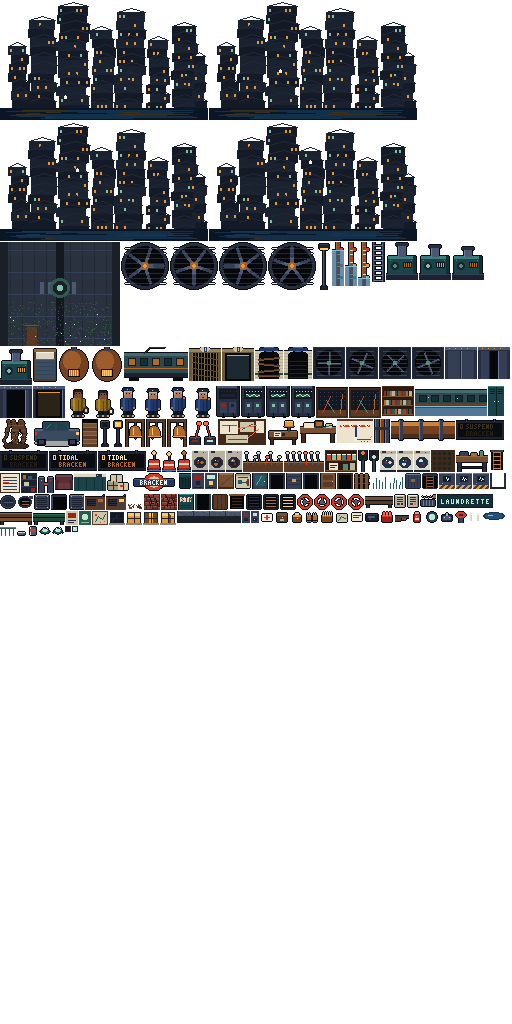
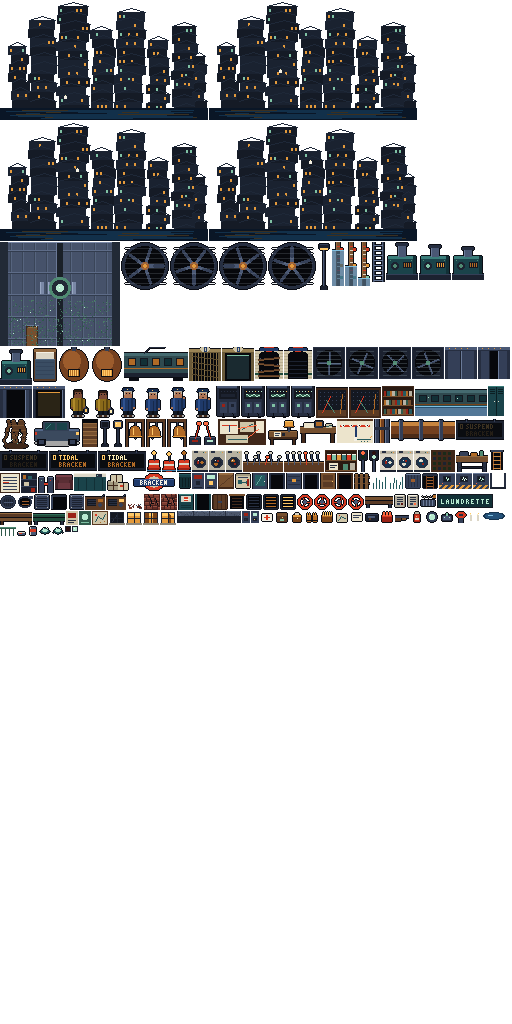
World pass: playtest fixes and browser smoke for the investigation, tide and reconnections
- Great door is a solid lit-from-the-pool prop (it was invisible over wall tops); first sight
  of it and of the far town get a short camera look
- Giant steps are real tiers with a narrow human stair cut through them
- Tide shoals contrast clearly between high water and the spring ebb
- Station hall dressing; single Platform Zero mosaic; no-entry roundel on STAFF ONLY doors
- tools/smoke-world.mjs (npm run smoke:world): 40 checks across both approaches, the tide,
  the cellar, every shortcut, hints and save/reload

Claude-Session: https://claude.ai/code/session_019Q2zQp815Uv7aTq9zuNDLy

Changed region(s): [[0.0, 0.2188, 0.2188, 0.3438]]

diff --git a/src/content/regions/tidal.ts b/src/content/regions/tidal.ts
@@ -17,8 +17,17 @@ const m = new MapBuilder(W, H)
   // shaft ledge (route B arrives here in the dark)
   .carve(46, 2, 8, 3, 'r')
   .carve(42, 4, 4, 2, 'r')
-  // giant steps descending to the shore
+  // giant steps descending to the shore: each riser is taller than a person, so a narrow
+  // human stair has been cut straight down through them
   .carve(20, 7, 28, 10, 'R')
+  .hrun(20, 47, 9, '#')
+  .hrun(20, 47, 12, '#')
+  .hrun(20, 47, 15, '#')
+  .carve(33, 9, 2, 1, 'u')
+  .carve(33, 12, 2, 1, 'u')
+  .carve(33, 15, 2, 1, 'u')
+  // the recess the great door stands in (the door itself is a solid prop, so light can reach it)
+  .carve(3, 3, 6, 6, 'R')
   // beach
   .carve(14, 17, 45, 4, 'S')
   .hrun(14, 58, 21, 's')
@@ -36,8 +45,6 @@ const m = new MapBuilder(W, H)
   .hrun(44, 46, 31, 'q');
 
 const crabs: Array<[number, number]> = [[4, 11], [5, 14], [4, 17], [8, 18], [10, 17]];
-const steps: EntityDef[] = [];
-for (const ty of [9, 12, 15]) for (let tx = 20; tx < 48; tx += 4) steps.push({ kind: 'prop', id: `tidal_step_${tx}_${ty}`, tx, ty, frame: 'giant_step', floor: true, ox: 24 });
 
 const platformLamps: StaticLight[] = [28, 34, 40].map((x, i) => ({
   id: `tidal_platform_lamp_${i}`,
@@ -63,14 +70,13 @@ const entities: EntityDef[] = [
   { kind: 'enemy', id: 'tidal_shaft_leech_b', tx: 43, ty: 5, type: 'leech', respawns: true },
   // --- arrival: the scale of the place, introduced from the top of the steps
   { kind: 'trigger', id: 'tidal_first_sight', tx: 14, ty: 18, w: 45, h: 1, action: 'reveal_stacks', once: true },
-  ...steps,
   { kind: 'prop', id: 'tidal_growth_a', tx: 21, ty: 8, frame: 'glow_growth_0', anim: seq('glow_growth', 2, 1), glow: { radius: 12, color: [120, 255, 200], dy: -8 } },
   { kind: 'prop', id: 'tidal_growth_b', tx: 45, ty: 11, frame: 'glow_growth_0', anim: seq('glow_growth', 2, 0.8), glow: { radius: 12, color: [120, 255, 200], dy: -8 } },
   { kind: 'prop', id: 'tidal_growth_c', tx: 30, ty: 14, frame: 'glow_growth_0', anim: seq('glow_growth', 2, 1.2), glow: { radius: 12, color: [120, 255, 200], dy: -8 } },
   { kind: 'pickup', id: 'pickup_tidal_bandage', tx: 46, ty: 8, item: 'bandage', amount: 1 },
   // --- the great door: built for something enormous; a hatch was cut into it much later, by hand
-  { kind: 'prop', id: 'tidal_great_door', tx: 5, ty: 8, frame: 'giant_door', wall: true, ox: 10 },
-  { kind: 'trigger', id: 'tidal_door_seen', tx: 12, ty: 15, w: 4, h: 7, action: `observe:${OBS.greatDoor}`, once: true },
+  { kind: 'prop', id: 'tidal_great_door', tx: 3, ty: 3, frame: 'giant_door', solid: { w: 6, h: 6 }, ox: 2 },
+  { kind: 'trigger', id: 'tidal_door_seen', tx: 12, ty: 15, w: 4, h: 7, action: 'reveal_door', once: true },
   { kind: 'exit', id: 'tidal_hatch', tx: 4, ty: 9, w: 1, h: 1, auto: false, verb: 'Open', label: 'Hatch in the great door', target: { region: REGIONS.cellar, entry: 'cave' } },
   // --- the tide's instruments
   { kind: 'prop', id: 'tidal_gauge', tx: 11, ty: 15, frame: 'tide_gauge_0', alt: [{ when: flag('tmp_tide_spring'), frame: 'tide_gauge_2' }, { when: flag('tmp_tide_low'), frame: 'tide_gauge_1' }] },
@@ -102,6 +108,7 @@ export const tidal: RegionDef = {
     e: { floor: Floor.PLATFORM_EDGE },
     r: { floor: Floor.CAVE_ROCK },
     R: { floor: Floor.CAVE_ROCK },
+    u: { floor: Floor.STAIRS_DOWN },
     S: { floor: Floor.SAND },
     s: { floor: Floor.SAND_WET },
     h: { floor: Floor.SHINGLE },
@@ -128,7 +135,9 @@ export const tidal: RegionDef = {
     { id: 'tidal_steps_glow', x: px(33), y: px(11), radius: 120, color: [90, 150, 210], intensity: 0.35 },
     { id: 'tidal_beach_glow', x: px(24), y: px(19), radius: 110, color: [90, 150, 210], intensity: 0.4 },
     { id: 'tidal_beach_glow_b', x: px(50), y: px(19), radius: 110, color: [90, 150, 210], intensity: 0.4 },
-    { id: 'tidal_door_glow', x: px(6), y: px(6), radius: 96, color: [120, 255, 200], intensity: 0.35, flicker: 0.05 },
+    { id: 'tidal_door_glow', x: px(6), y: px(11), radius: 150, color: [120, 220, 200], intensity: 0.55, flicker: 0.05 },
+    { id: 'tidal_shoal_glow', x: px(9), y: px(17), radius: 90, color: [140, 190, 230], intensity: 0.35 },
+    { id: 'tidal_stair_glow', x: px(34), y: px(11), radius: 70, color: [255, 220, 170], intensity: 0.35 },
     { id: 'tidal_nemi_lantern', x: px(44), y: px(19), radius: 72, color: [255, 200, 120], intensity: 0.9, flicker: 0.06 },
     { id: 'tidal_bell_lamp', x: px(16), y: px(16), radius: 56, color: [255, 200, 120], intensity: 0.6, flicker: 0.04 },
     { id: 'tidal_pier_lamp', x: px(45), y: px(30), radius: 56, color: [255, 200, 120], intensity: 0.6, flicker: 0.1 },

diff --git a/tools/art/depths.ts b/tools/art/depths.ts
@@ -143,8 +143,8 @@ function staffDoor(open: boolean): Raster {
     r.rect(0, 0, 16, 16, P.void).rect(0, 0, 2, 16, P.teal[2]).rect(14, 0, 2, 16, P.teal[2]);
     return r;
   }
-  r.rect(1, 0, 14, 16, P.teal[2]).hline(1, 14, 0, P.teal[4]).rect(2, 3, 12, 5, P.bone[2]);
-  text(r, 3, 3, 'STA', P.verm[1]);
+  r.rect(1, 0, 14, 16, P.teal[2]).hline(1, 14, 0, P.teal[4]).rect(3, 2, 10, 6, P.bone[2]);
+  r.ellipse(8, 5, 2.5, 2.5, P.verm[2]).hline(6, 10, 5, P.bone[3]); // no-entry roundel
   r.hline(3, 12, 11, P.teal[1]).hline(3, 12, 13, P.teal[1]);
   r.rect(0, 0, 1, 16, P.ink).rect(15, 0, 1, 16, P.ink);
   return r;
@@ -215,19 +215,20 @@ function buoy(f: number): Raster {
 function giantDoor(): Raster {
   const r = R(120, 104);
   // a door built for something forty times your height; you could not see its top from the shore
-  r.rect(0, 0, 120, 104, '#1a2028');
-  r.rect(8, 0, 104, 104, '#2a3240');
-  for (let x = 10; x < 110; x += 12) r.vline(x, 0, 103, '#222a36');
-  for (let y = 8; y < 104; y += 22) r.hline(8, 111, y, '#34405a');
-  r.rect(56, 0, 8, 104, '#141820'); // the seam between the leaves
-  for (let i = 0; i < 5; i++) r.rect(40 + i * 8, 40, 4, 12, '#4a5874'); // a hinge-bolt the size of a car
-  r.ellipse(60, 46, 10, 10, P.mint[1]).ellipse(60, 46, 7, 7, '#1a2028').ellipse(60, 46, 3, 3, P.mint[3]);
+  r.rect(0, 0, 120, 104, '#222a36');
+  r.rect(8, 0, 104, 104, '#46526a');
+  for (let x = 10; x < 110; x += 12) r.vline(x, 0, 103, '#3a4558').vline(x + 1, 0, 103, '#56647e');
+  for (let y = 8; y < 104; y += 22) r.hline(8, 111, y, '#5e6c88').hline(8, 111, y + 1, '#323c4e');
+  r.rect(57, 0, 6, 104, '#1a2028').vline(56, 0, 103, '#6a7896'); // the seam between the leaves
+  for (let i = 0; i < 5; i++) r.rect(40 + i * 8, 40, 4, 12, '#7a88a6').vline(40 + i * 8, 40, 51, '#9aa8c4'); // hinge bolts the size of cars
+  r.ellipse(60, 46, 11, 11, P.mint[2]).ellipse(60, 46, 8, 8, '#222a36').ellipse(60, 46, 4, 4, P.mint[4]).px(59, 45, P.mint[5]);
   // the human-sized hatch cut into the bottom corner, much later, by hand
-  r.rect(26, 84, 12, 20, P.wood[1]).rect(27, 85, 10, 19, P.wood[2]).px(35, 94, P.amber[4]);
-  r.rect(25, 83, 14, 1, P.slate[4]);
+  r.rect(26, 84, 12, 20, P.wood[1]).rect(27, 85, 10, 19, P.wood[3]).hline(27, 36, 85, P.wood[4]).px(35, 94, P.amber[4]);
+  r.rect(25, 83, 14, 1, P.slate[5]);
   const rand = rng(41);
-  r.speckle(8, 60, 104, 44, ['#3a5a4a', '#2a4a3a'], 0.08, rand);
-  for (let i = 0; i < 12; i++) r.px(10 + Math.floor(rand() * 100), 70 + Math.floor(rand() * 30), P.mint[4]);
+  r.speckle(8, 58, 104, 46, ['#3a6a5a', '#2e5a4a', '#4a7a66'], 0.1, rand);
+  for (let i = 0; i < 14; i++) r.px(10 + Math.floor(rand() * 100), 64 + Math.floor(rand() * 36), P.mint[4]);
+  r.hline(8, 111, 0, '#7a88a6');
   return r.outline('#07080c');
 }
 function giantStep(): Raster {

diff --git a/src/content/regions/station.ts b/src/content/regions/station.ts
@@ -19,7 +19,7 @@ const m = new MapBuilder(56, 22)
   .carve(2, 11, 47, 4, '.')
   .sprinkle('.', ',', 6, 5)
   .hrun(2, 48, 15, 'e')
-  .carve(36, 12, 2, 1, 'z')
+  .set(36, 12, 'z')
   // track bed: west tunnel to the storm drains, east end past the third rail to the shaft hatch
   .carve(0, 16, 56, 4, 't')
   .carve(53, 17, 2, 2, 'g')
@@ -68,6 +68,15 @@ const entities: EntityDef[] = [
   { kind: 'interact', id: 'station_network_map_read', tx: 16, ty: 2, w: 2, verb: 'Study', label: 'Network map', action: 'read_network_map' },
   ...[6, 8, 12, 14].map((x): EntityDef => ({ kind: 'prop', id: `station_barrier_${x}`, tx: x, ty: 6, frame: 'ticket_barrier', solid: { w: 1, h: 1 } })),
   { kind: 'pickup', id: 'pickup_station_rounds', tx: 4, ty: 3, item: 'light_rounds', amount: 10 },
+  // ticket hall dressing: the last day of service, left as it was
+  { kind: 'prop', id: 'station_poster_a', tx: 13, ty: 1, frame: 'poster_0', wall: true, oy: -1 },
+  { kind: 'prop', id: 'station_poster_b', tx: 19, ty: 1, frame: 'poster_1', wall: true, oy: -1 },
+  { kind: 'prop', id: 'station_poster_c', tx: 7, ty: 1, frame: 'poster_0', wall: true, oy: -1 },
+  { kind: 'prop', id: 'station_ticket_office', tx: 3, ty: 6, frame: 'counter', solid: { w: 2, h: 1 } },
+  { kind: 'prop', id: 'station_hall_bench', tx: 16, ty: 7, frame: 'platform_bench', solid: { w: 2, h: 1 } },
+  { kind: 'prop', id: 'station_hall_bin', tx: 20, ty: 5, frame: 'bin', solid: { w: 1, h: 1 } },
+  { kind: 'prop', id: 'station_hall_crate', tx: 20, ty: 2, frame: 'crate', solid: { w: 1, h: 1 } },
+  { kind: 'prop', id: 'station_hall_puddle', tx: 9, ty: 4, frame: 'puddle_prop', floor: true },
   { kind: 'pickup', id: 'pickup_station_ticket', tx: 19, ty: 3, item: 'curio', amount: 1, ref: 'curio_platform_pass' },
   // STAFF ONLY door to the Service Veins: a manual release on this side
   { kind: 'prop', id: 'station_staff_door', tx: 1, ty: 3, frame: 'staff_door_closed', wall: true, alt: { when: any(flag(F.stationStaffOpen), flag(F.relayReconnected)), frame: 'staff_door_open' } },

diff --git a/tools/art/tiles.ts b/tools/art/tiles.ts
@@ -432,9 +432,9 @@ function track(seed: number): Raster {
 function sand(seed: number, wet: boolean, glow = false): Raster {
   const r = tile();
   const rand = rng(seed);
-  r.rect(0, 0, T, T, wet ? '#4a4c52' : '#6a6a66');
-  r.speckle(0, 0, T, T, wet ? ['#3a3d44', '#5a5d64', '#2f3a48'] : ['#5a5a56', '#7c7c76', '#8a8880'], 0.3, rand);
-  if (wet) for (let i = 0; i < 2; i++) { const y = Math.floor(rand() * 15); const x = Math.floor(rand() * 8); r.hline(x, x + 4, y, '#5f7a90'); }
+  r.rect(0, 0, T, T, glow ? '#7a7262' : wet ? '#4a4c52' : '#6a6a66');
+  r.speckle(0, 0, T, T, glow ? ['#6a6252', '#8a8270', '#5a6a62'] : wet ? ['#3a3d44', '#5a5d64', '#2f3a48'] : ['#5a5a56', '#7c7c76', '#8a8880'], 0.3, rand);
+  if (wet && !glow) for (let i = 0; i < 2; i++) { const y = Math.floor(rand() * 15); const x = Math.floor(rand() * 8); r.hline(x, x + 4, y, '#5f7a90'); }
   if (glow) for (let i = 0; i < 3; i++) r.px(Math.floor(rand() * 16), Math.floor(rand() * 16), P.mint[4]);
   return r;
 }
@@ -469,8 +469,8 @@ function deepWater(seed: number): Raster {
 
 function tideWater(): Raster {
   const r = tile();
-  r.rect(0, 0, T, T, '#13304a');
-  r.hline(2, 6, 4, '#2a5a80').hline(9, 13, 10, '#2a5a80').px(12, 3, '#5f9fcf');
+  r.rect(0, 0, T, T, '#0a1828');
+  r.hline(2, 6, 4, '#16324e').hline(9, 13, 10, '#16324e').px(12, 3, '#2a5a80');
   return r;
 }
 

diff --git a/src/app/game.ts b/src/app/game.ts
@@ -51,6 +51,7 @@ export class GameApp {
   private lookT = 0;
   private announceT = 0;
   private announceIdx = 0;
+  private obsToastAt = -1e9;
   private readonly hud = new Hud();
   private readonly dialogue = new Dialogue();
   private readonly screens = new Screens();
@@ -649,7 +650,10 @@ export class GameApp {
     if (this.data.flags[id]) return;
     const before = this.questionKey();
     this.setFlag(id);
-    if (this.questionKey() !== before) this.hud.toast('Journal: new observation');
+    if (this.questionKey() !== before && performance.now() - this.obsToastAt > 2500) {
+      this.obsToastAt = performance.now();
+      this.hud.toast('Journal: new observation');
+    }
   }
 
   private questionKey(): string {
@@ -891,6 +895,12 @@ export class GameApp {
         this.hud.subtitle('', DIALOGUE.stacks_reveal![0]!.text, 7);
         this.observe(OBS.stacks);
         if (!d.finds.landmarks.includes('The Shoreward Stacks (seen)')) d.finds.landmarks.push('The Shoreward Stacks (seen)');
+        return;
+      case 'reveal_door':
+        this.look(6 * TILE, 6 * TILE, 3.2);
+        this.audio.play('discover');
+        this.hud.subtitle('', DIALOGUE.door_reveal![0]!.text, 6);
+        this.observe(OBS.greatDoor);
         return;
       case 'read_edda_letter':
         await this.talk('edda_letter');

diff --git a/src/content/story.ts b/src/content/story.ts
@@ -99,6 +99,7 @@ export const DIALOGUE: Record<string, Line[]> = {
   bell_plaque: [{ speaker: 'Bell plaque', text: 'RUNG BY THE TIDE. WHEN IT RINGS, WALK ASHORE.' }],
   buoy_marker: [{ speaker: 'Buoy marker', text: 'END OF SURVEYED WATER. Beyond it, the lights of the Stacks, very far and very high.' }],
   stacks_reveal: [{ speaker: '', text: 'Across the water, a town stacked on itself, lit window over lit window, far higher than this cavern should allow. Something small moves between the lights.' }],
+  door_reveal: [{ speaker: '', text: 'Set into the cliff above the shoals: a door. Not a door for people. Someone, much later, cut a small hatch into its foot.' }],
   tide_carried: [{ speaker: '', text: 'The water rises around you, lifts you, and sets you down on the shingle.' }],
   tide_bell: [{ speaker: 'Tide bell', text: 'The bell rings over the shoals: the water is turning.' }],
   trapdoor_locked: [{ speaker: '', text: 'A trapdoor under the floorboards you never noticed. It does not budge: bolted from below.' }],
